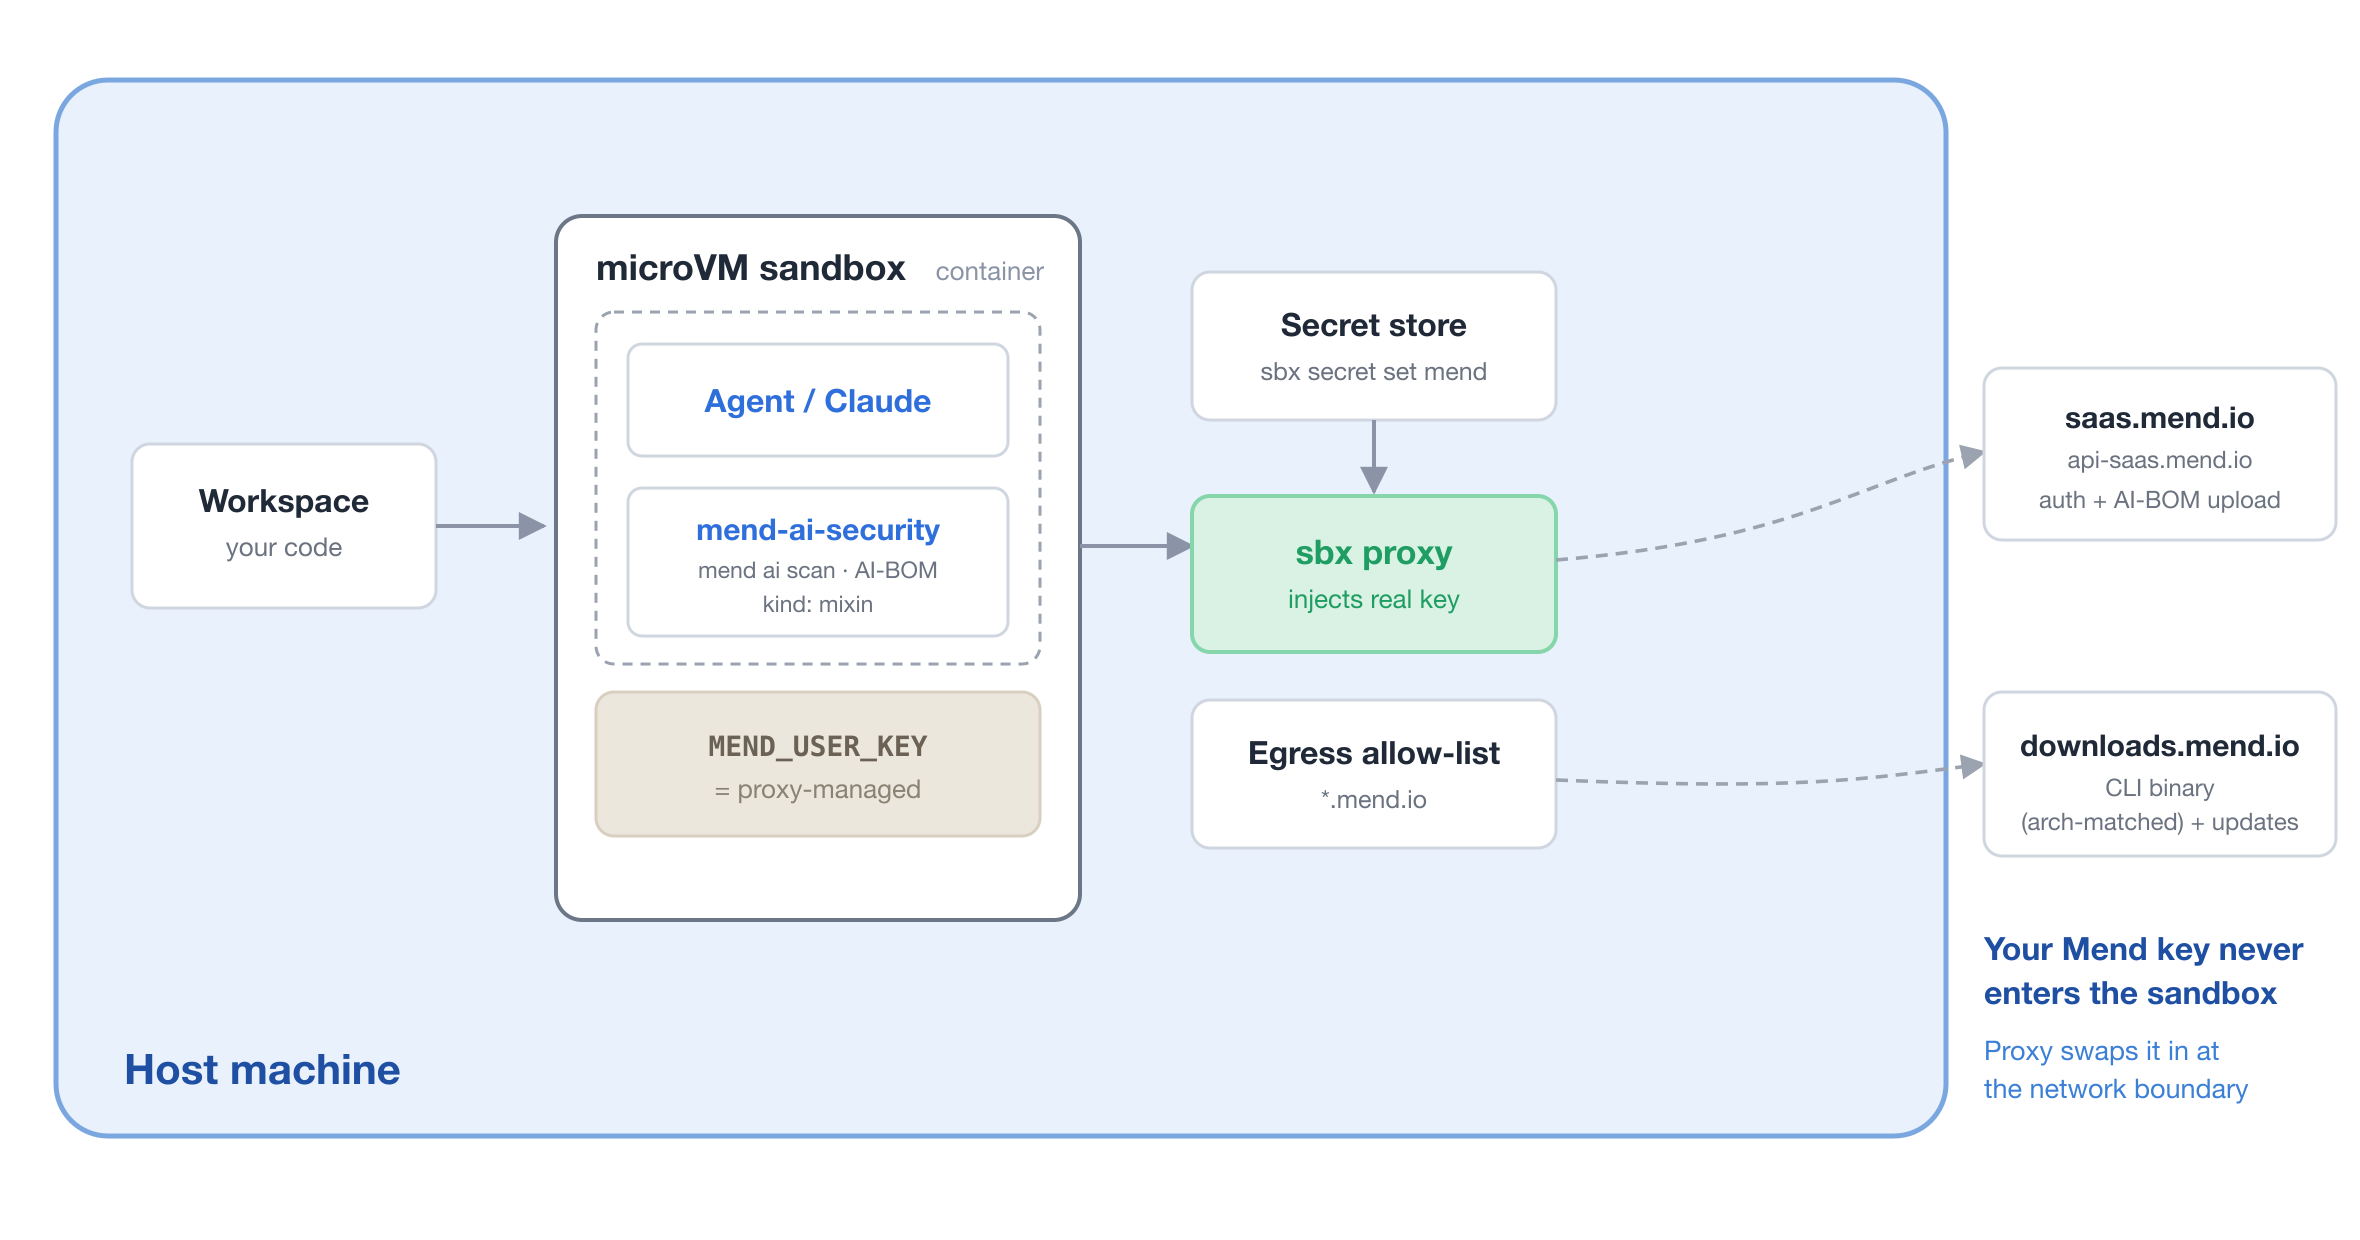
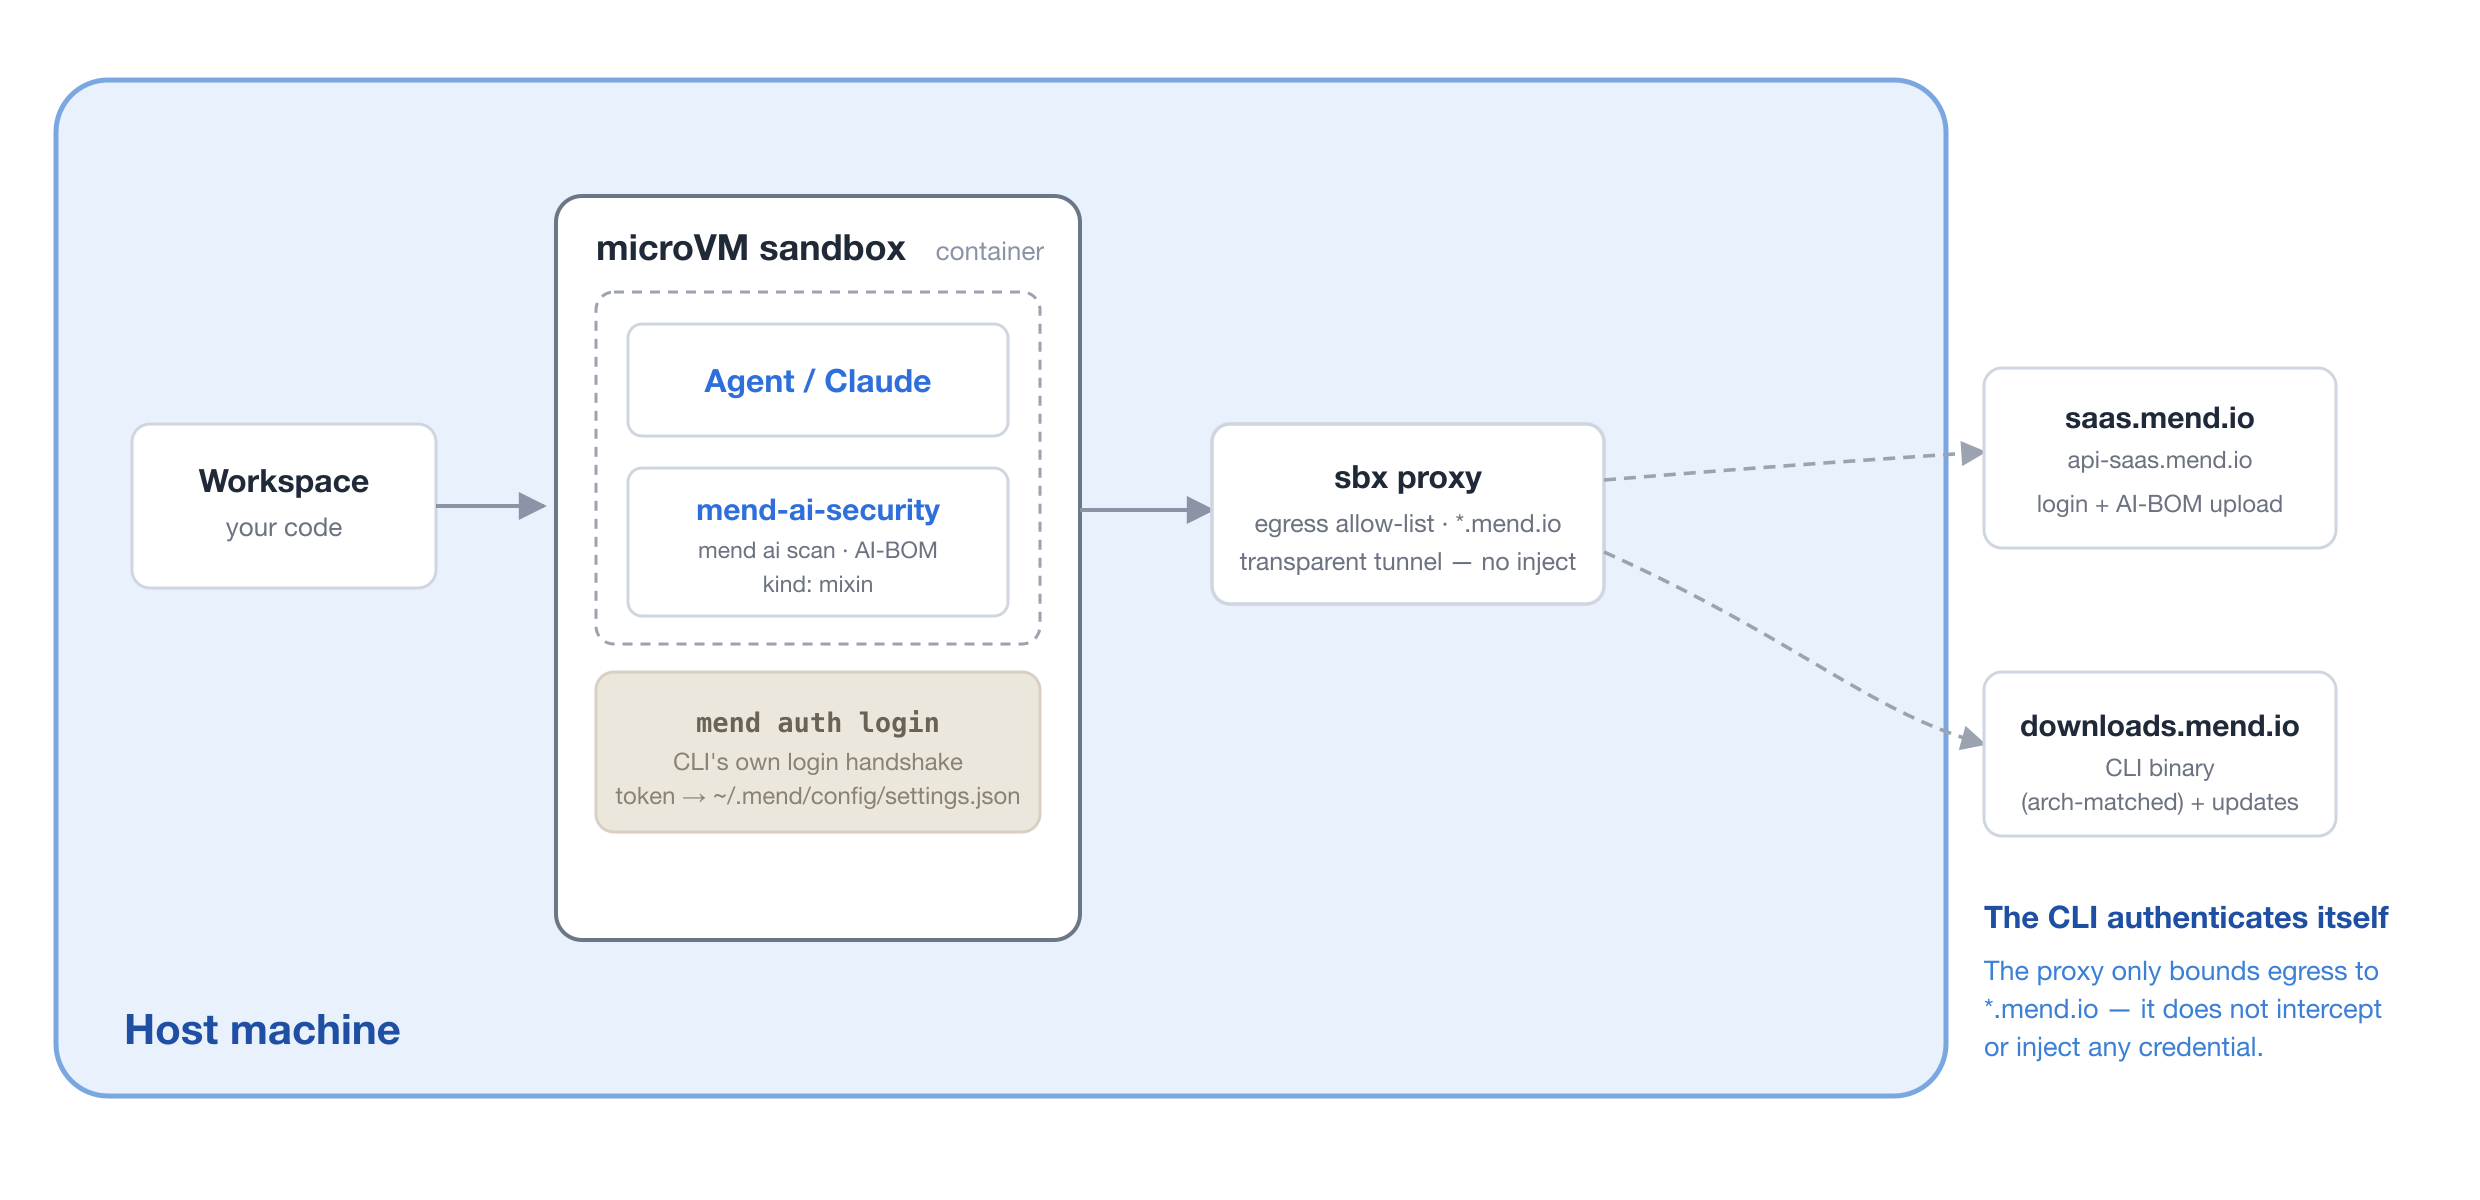
fix: remove proxy-managed credential (it broke Mend auth in-sandbox)
Confirmed by testing (host works, sandbox fails, same creds): the apiKey inject
on *.mend.io makes the sbx proxy TLS-intercept those hosts, which corrupts
Mend's login handshake and returns "Unauthorized" inside the sandbox. Removed
the credentials block so the proxy tunnels *.mend.io transparently and the CLI
authenticates itself.

- spec.yaml: drop credentials block; rewrite agentInstructions auth to
  `mend auth login` (Enter credentials manually, Service User) + env-var option;
  note personal keys fail under SSO and browser login can't complete headless.
- README: correct Architecture text, "What it adds", Authentication, and the
  Example to the self-auth model.
- assets/architecture.{svg,png}: redraw — transparent proxy (no inject), CLI
  self-auth, `mend auth login` → token in ~/.mend/config/settings.json.
- docs/CREDENTIALS.md: mark resolved; record the confirmed root cause and the
  working Service-User manual-login path.

diff --git a/README.md b/README.md
@@ -13,10 +13,13 @@ ability to run Mend AI security scans against the code it is working on.
 
 <img src="./assets/architecture.png" alt="Mend AI Security sbx kit architecture" width="100%" />
 
-The Mend CLI runs inside the sandbox and scans the workspace in place. Your
-`MEND_USER_KEY` stays **proxy-managed**: inside the container it is only the
-sentinel `proxy-managed`, and the sbx credential proxy swaps in the real key on
-the wire — so the key never enters the sandbox. An egress allow-list bounds
+The Mend CLI runs inside the sandbox and scans the workspace in place. It
+performs **its own login handshake** (email + user key → token stored in
+`~/.mend/config/settings.json`), so the kit deliberately declares **no
+proxy-managed credential** — the sbx proxy simply *tunnels* `*.mend.io`
+transparently. (Injecting a credential would make the proxy TLS-intercept those
+hosts, which corrupts Mend's login and fails with `Unauthorized` — see
+[`docs/CREDENTIALS.md`](docs/CREDENTIALS.md).) An egress allow-list bounds
 outbound traffic to `*.mend.io` (CLI download/auto-update plus auth and AI-BOM
 upload), and everything else is denied.
 
@@ -26,10 +29,9 @@ upload), and everything else is denied.
 - `mend ai scan` — AI usage discovery + AI-BOM generation.
 - Egress allow-list for `*.mend.io` so scans and CLI auto-update work under a
   `deny-all` network policy.
-- A proxy-managed `MEND_USER_KEY` credential — the container never sees the raw
-  key.
 - A `MEND_URL` default (`https://saas.mend.io`) plus agent instructions on how
-  to run scans and authenticate.
+  to run scans and authenticate (via the CLI's own `mend auth login` or env
+  vars — the kit injects no credential of its own).
 
 The same CLI also provides `mend dep` (SCA), `mend code` (SAST), and
 `mend image` (container) scanning.
@@ -61,27 +63,31 @@ sbx run claude --kit ./sbx-kits-mend/ .
 
 ## Authentication
 
-The Mend CLI authenticates with a service user. Provide these when you launch
-the sandbox:
+The Mend CLI authenticates **itself** — the kit injects no credential; it only
+opens egress to `*.mend.io`. Use a **Service User** (Mend → Settings → Service
+Users), not a personal key: SSO-enforced orgs typically reject personal user
+keys with `Unauthorized`.
 
 | Variable | Secret? | Notes |
 |---|---|---|
 | `MEND_URL` | no | Tenant URL. Preset to `https://saas.mend.io`; override for EU/IL/legacy (e.g. `https://saas-eu.mend.io`). |
-| `MEND_EMAIL` | no | Service-user (or personal) email. |
-| `MEND_USER_KEY` | **yes** | Service-user key. Proxy-managed — bind it in `~/.config/sbx/credentials.yaml`. |
+| `MEND_EMAIL` | no | Service-user email. |
+| `MEND_USER_KEY` | **yes** | Service-user key. Passed as-is (no proxy masking) — it is readable in the sandbox, so scope it to a Service User. |
 | `MEND_ORGANIZATION` | no | Organization UUID (needed for some scopes). |
 
-`MEND_USER_KEY` is delivered through the sbx credential proxy: in the container
-it is the literal `proxy-managed`, and the proxy swaps in the real key on
-outbound requests to Mend. Bind it under `service: mend` in your
-`~/.config/sbx/credentials.yaml`.
+**Option A — `mend auth login` (recommended).** Inside the sandbox, run
+`mend auth login`, pick your environment, and choose **"Enter credentials
+manually"** (the browser option can't complete headless — its `127.0.0.1`
+callback never reaches the CLI from a host browser). Enter the Service User
+email + key; the token is cached in `~/.mend/config/settings.json`.
 
-Pass the non-secret coordinates at run time, for example:
+**Option B — environment variables** at launch:
 
 ```bash
 sbx run claude \
   --kit docker.io/ajeetraina777/mend-ai-security-kit:latest \
   -e MEND_EMAIL="svc@example.com" \
+  -e MEND_USER_KEY="<service-user-key>" \
   -e MEND_ORGANIZATION="<org-uuid>" .
 ```
 
@@ -100,19 +106,21 @@ mend ai scan --directory .                 # AI security scan + AI-BOM
 
 ## Example: scan a project for AI usage
 
-Bind your Mend service-user key once, launch a Claude sandbox with the kit, and
-run an AI security scan on the project in the current directory:
+Launch a Claude sandbox with the kit against the project you want to scan, then
+authenticate the CLI and run the AI scan:
 
 ```bash
-# 1. Bind the Mend service-user key (proxy-managed; stored host-side, once)
-sbx secret set mend
-
-# 2. Launch a sandbox with the kit, mounting the project you want to scan
+# 1. Launch a sandbox with the kit, mounting the project to scan.
+#    Pass Service User creds as env vars (Option B)…
 sbx run claude \
   --kit docker.io/ajeetraina777/mend-ai-security-kit:latest \
   -e MEND_EMAIL="svc@example.com" \
+  -e MEND_USER_KEY="<service-user-key>" \
   -e MEND_ORGANIZATION="<org-uuid>" \
   ~/code/my-ai-app
+
+# 2. …or, instead of env vars, log in interactively inside the sandbox (Option A):
+#    mend auth login   ->   "Enter credentials manually"
 
 # 3. Inside the sandbox: verify connectivity, then scan
 mend connectivity --mend-url="$MEND_URL"

diff --git a/docs/CREDENTIALS.md b/docs/CREDENTIALS.md
@@ -1,9 +1,29 @@
-# Mend CLI credential design — findings & drafts
+# Mend CLI credential design — findings & resolution
 
-Status: **investigation**. This documents how the Mend CLI authenticates, why
-the kit's shipped `apiKey` credential is likely ineffective, and two candidate
-redesigns. Nothing here is wired into `spec.yaml` yet — the `‹CONFIRM›` values
-must be captured from a completed `mend auth login` first.
+Status: **resolved**. The kit ships **no proxy-managed credential** — it only
+opens egress to `*.mend.io` and lets the Mend CLI authenticate itself.
+
+## Resolution (what shipped)
+
+Confirmed by live testing (host vs. sandbox, same credentials):
+
+- The proxy-managed `apiKey` block **broke** auth. Declaring `apiKey.inject` on
+  `*.mend.io` makes the sbx proxy **TLS-intercept** those hosts to add an
+  `Authorization` header; that mangles Mend's login handshake and returns
+  `Unauthorized` **inside the sandbox**, while the *same* credentials succeed on
+  the **host** (no proxy in the path). → The `credentials:` block was removed.
+- **Working auth inside the sandbox:** `mend auth login` → **"Enter credentials
+  manually"** with a **Service User** email + key. The token is cached in
+  `~/.mend/config/settings.json`. Env vars (`MEND_EMAIL` / `MEND_USER_KEY` /
+  `MEND_ORGANIZATION`) also work when the CLI consumes them via login.
+- **Personal user keys are rejected under SSO** (`Unauthorized`) — Docker's org
+  is SSO-enforced, so a Service User is required.
+- **Browser login does not work headless**: its callback is `http://127.0.0.1:<port>`,
+  which the CLI listens on *inside* the sandbox, but the browser runs on the
+  host — the redirect never reaches the CLI. Use "Enter credentials manually".
+
+The rest of this document is the investigation trail that led there, kept for
+reference (and in case a future `sbx` gains body-level secret swapping).
 
 ## What the CLI actually does (evidence from the binary, v26.8.2-hf1)
 
